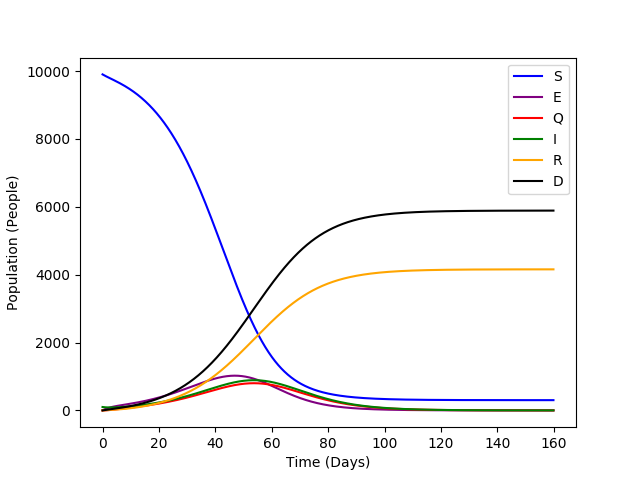
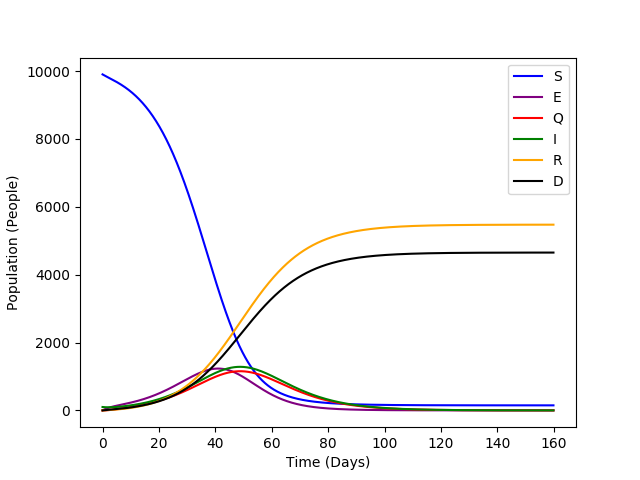
changing variables

diff --git a/hrenard_program3.py b/hrenard_program3.py
@@ -9,7 +9,7 @@ def runsim(
 	contact_factor = .8,                          		# (contact / day) / person
 	mean_incubation = 9,                               	# day
 	mean_quarantine = 10,					# day
-	mean_death = 15,                                 	# day
+	mean_death = 25,                                 	# day
 	plot = True):
 	
 	recovery_factor = 1 / mean_infectious_duration    	# 1 / day
